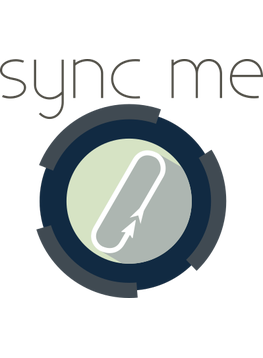
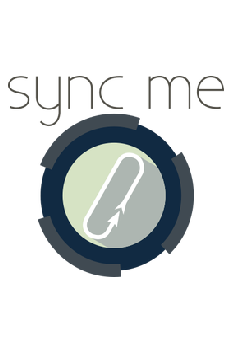
Created splash screen transition to initial window

diff --git a/src/main/java/gui/SplashScreen.java b/src/main/java/gui/SplashScreen.java
@@ -1,0 +1,87 @@
+package gui;
+
+import javax.imageio.ImageIO;
+import javax.swing.*;
+import java.awt.*;
+import java.awt.event.ActionEvent;
+import java.awt.event.ActionListener;
+import java.awt.image.BufferedImage;
+import java.io.File;
+import java.io.IOException;
+
+/**
+ * Created by @AdrianBZG (www.adrianbazaga.com) on 29/01/2017.
+ */
+public class SplashScreen {
+
+    private JFrame frame;
+
+    public SplashScreen() {
+        frame = new JFrame("SyncMe: Splash screen");
+        frame.setDefaultCloseOperation(JFrame.EXIT_ON_CLOSE);
+        frame.setSize(500, 500);
+        frame.setResizable(false);
+        frame.getContentPane().setBackground(Color.WHITE);
+
+        JPanel panel = new JPanel();
+        placeComponents(panel);
+
+        frame.pack();
+    }
+
+    public void showWindow() {
+        frame.setLocationRelativeTo(null);
+        frame.setVisible(true);
+    }
+
+    private void placeComponents(JPanel panel) {
+
+        panel.setLayout(new BorderLayout());
+
+        BufferedImage myPicture = null;
+        ImageIcon windowIcon = new ImageIcon("C:\\Users\\QiCanarias23\\IdeaProjects\\syncme\\res\\syncme.png");
+        try {
+            myPicture = ImageIO.read(new File("C:\\Users\\QiCanarias23\\IdeaProjects\\syncme\\res\\syncme.png"));
+        } catch (IOException e) {
+            e.printStackTrace();
+        }
+
+        JLabel picLabel = new JLabel(new ImageIcon(myPicture));
+
+        frame.add(picLabel, BorderLayout.CENTER);
+
+        JPanel bottomPart = new JPanel(new BorderLayout());
+        JLabel infoText = new JLabel("<html><center><p style=\"color: #000000; background-color: #ffffff\">This is a prototype of <b>SyncMe v2</b>, ported to<br>the Java language and fixed to work with the newest<br>versions of Dropbox (v2) and Google Drive (v3) APIs.<br>If you have interest in collaborate with the project,<br>please don't hesitate to do it,remember to<br>read the project basis.</p></center></html>");
+        bottomPart.add(infoText, BorderLayout.CENTER);
+
+        JButton okButton = new JButton("OK");
+        JButton licenseButton = new JButton("LICENSE");
+
+        okButton.addActionListener(new ActionListener() {
+            public void actionPerformed(ActionEvent e)
+            {
+                InitialWindow initialWindow = new InitialWindow();
+                initialWindow.showWindow();
+                frame.dispose();
+            }
+        });
+
+        licenseButton.addActionListener(new ActionListener() {
+            public void actionPerformed(ActionEvent e)
+            {
+                frame.dispose();
+            }
+        });
+
+        JPanel buttonsPart = new JPanel(new GridLayout(1,2));
+
+        buttonsPart.add(okButton);
+        buttonsPart.add(licenseButton);
+
+        bottomPart.add(buttonsPart, BorderLayout.SOUTH);
+
+        frame.add(bottomPart, BorderLayout.SOUTH);
+
+        frame.setIconImage(windowIcon.getImage());
+    }
+}

diff --git a/src/main/java/gui/InitialWindow.java b/src/main/java/gui/InitialWindow.java
@@ -21,11 +21,13 @@ public class InitialWindow {
 
         JPanel panel = new JPanel();
         placeComponents(panel);
+
+        frame.pack();
     }
 
     public void showWindow() {
+        frame.setLocationRelativeTo(null);
         frame.setVisible(true);
-        frame.pack();
     }
 
     private void placeComponents(JPanel panel) {
@@ -34,15 +36,7 @@ public class InitialWindow {
 
         JPanel buttonsPanel = new JPanel (new GridLayout(0,1));
 
-        BufferedImage myPicture = null;
         ImageIcon windowIcon = new ImageIcon("C:\\Users\\QiCanarias23\\IdeaProjects\\syncme\\res\\syncme.png");
-        try {
-            myPicture = ImageIO.read(new File("C:\\Users\\QiCanarias23\\IdeaProjects\\syncme\\res\\syncme.png"));
-        } catch (IOException e) {
-            e.printStackTrace();
-        }
-
-        JLabel picLabel = new JLabel(new ImageIcon(myPicture));
 
         JButton loginToDropbox = new JButton("Login to Dropbox");
         buttonsPanel.add(loginToDropbox);
@@ -53,11 +47,9 @@ public class InitialWindow {
         JButton getAccessTokenButton = new JButton("Get access token");
         buttonsPanel.add(getAccessTokenButton);
 
-        frame.add(buttonsPanel, BorderLayout.NORTH);
+        frame.add(buttonsPanel, BorderLayout.CENTER);
 
-        frame.add(picLabel, BorderLayout.CENTER);
-
-        JLabel userLabel = new JLabel("SyncMe prototype v2");
+        JLabel userLabel = new JLabel("Copyright 2017 Adrián Rodríguez Bazaga");
         frame.add(userLabel, BorderLayout.SOUTH);
 
         frame.setIconImage(windowIcon.getImage());

diff --git a/src/main/java/logic/Main.java b/src/main/java/logic/Main.java
@@ -5,6 +5,7 @@ package logic;
  */
 
 import gui.InitialWindow;
+import gui.SplashScreen;
 
 import java.io.IOException;
 
@@ -17,7 +18,7 @@ public class Main {
         SwingUtilities.invokeAndWait(new Runnable() {
             public void run() {
                 try {
-                    InitialWindow frame = new InitialWindow();
+                    SplashScreen frame = new SplashScreen();
                     frame.showWindow();
                 } catch (Exception e) {
                     e.printStackTrace();
